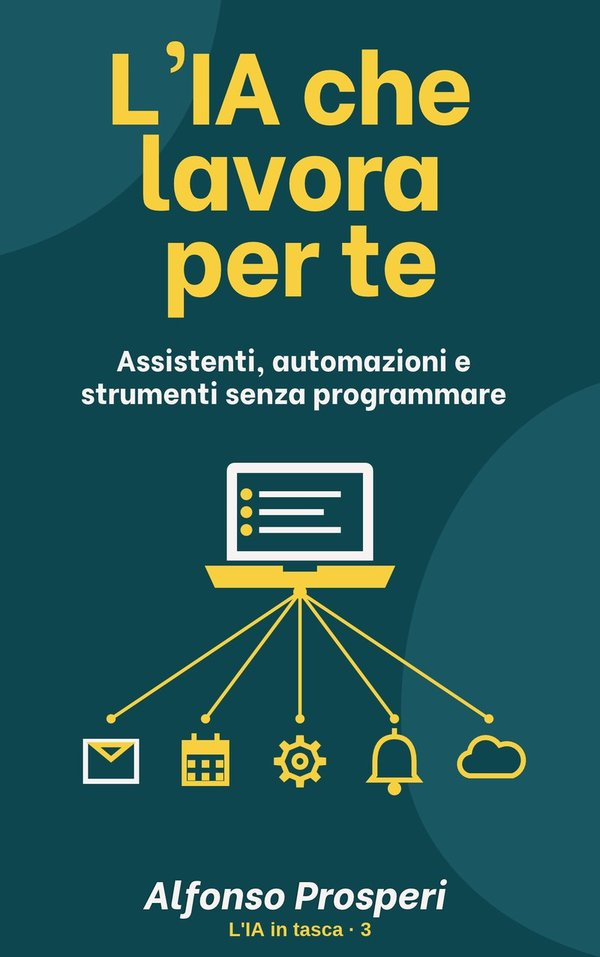
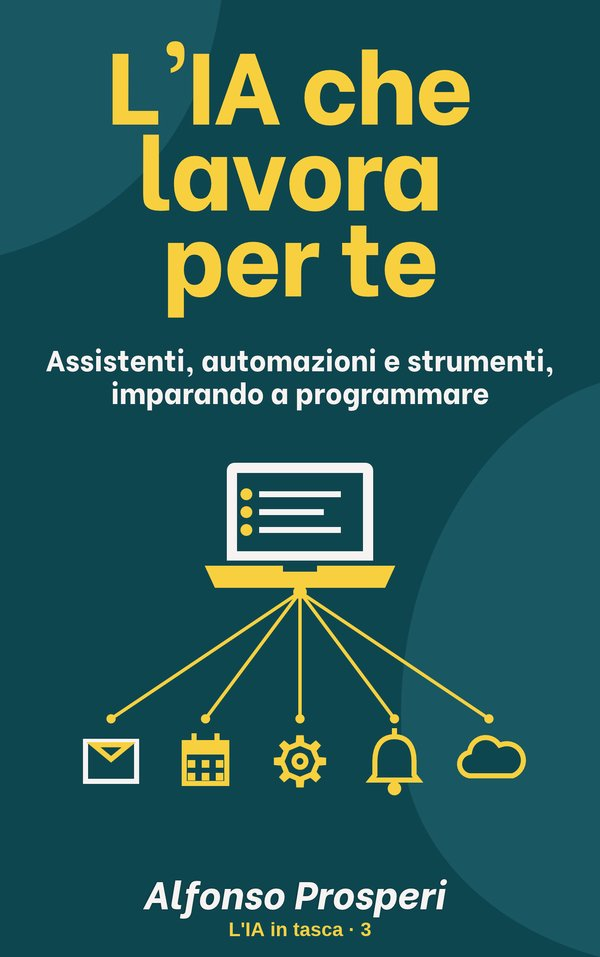
Copertina 3 e immagine collana aggiornate (anteprima)
Claude-Session: https://claude.ai/code/session_015jzQVtorYFvb99Z724cnmR

Changed region(s): [[0.06, 0.3636, 0.93, 0.4242], [0.48, 0.7879, 0.51, 0.8182]]

diff --git a/ebook/index.html b/ebook/index.html
@@ -11,13 +11,13 @@
 <meta property="og:type" content="website">
 <meta property="og:locale" content="it_IT">
 <meta property="og:url" content="https://prosperialfonso.com/ebook/">
-<meta property="og:image" content="https://prosperialfonso.com/assets/ebook/og-collana.jpg?v=2">
+<meta property="og:image" content="https://prosperialfonso.com/assets/ebook/og-collana.jpg?v=3">
 <meta property="og:image:width" content="1200">
 <meta property="og:image:height" content="627">
 <meta name="twitter:card" content="summary_large_image">
 <meta name="twitter:title" content="L'IA in tasca · la collana di eBook di Alfonso Prosperi">
 <meta name="twitter:description" content="La collana di eBook per usare l'intelligenza artificiale nella vita di tutti i giorni, in tre volumi dal principiante all'esperto.">
-<meta name="twitter:image" content="https://prosperialfonso.com/assets/ebook/og-collana.jpg?v=2">
+<meta name="twitter:image" content="https://prosperialfonso.com/assets/ebook/og-collana.jpg?v=3">
 <link rel="canonical" href="https://prosperialfonso.com/ebook/">
 <link rel="icon" href="/favicon.ico" sizes="48x48">
 <link rel="icon" href="/favicon-96.png" type="image/png" sizes="96x96">
@@ -160,11 +160,11 @@
         </section>
 
         <section class="eb-card is-soon" id="ebook-3">
-          <div class="eb-cover"><img src="../assets/ebook/copertina-3.jpg?v=1" alt="Copertina dell'eBook L'IA che lavora per te, L'IA in tasca 3" width="600" height="957" loading="lazy"></div>
+          <div class="eb-cover"><img src="../assets/ebook/copertina-3.jpg?v=2" alt="Copertina dell'eBook L'IA che lavora per te, L'IA in tasca 3" width="600" height="957" loading="lazy"></div>
           <div class="eb-info">
             <div class="eb-top"><span class="eb-num">L'IA in tasca · 3 · Esperto</span><span class="eb-badge eb-wip">In lavorazione</span></div>
             <h2>L'IA che lavora per te</h2>
-            <p class="eb-sub">Assistenti, automazioni e strumenti senza programmare</p>
+            <p class="eb-sub">Assistenti, automazioni e strumenti, imparando a programmare</p>
             <p>Per chi vuole fare un passo in più: assistenti su misura e piccole automazioni che tolgono di mezzo i lavori ripetitivi, imparando a programmare.</p>
           </div>
         </section>

diff --git a/index.html b/index.html
@@ -206,7 +206,7 @@
         <a class="shot shot-book shot-trio" href="ebook/" aria-label="L'IA in tasca, scopri la collana di eBook">
           <img src="assets/ebook/copertina-1.jpg?v=1" loading="lazy" decoding="async" alt="Copertina dell'eBook L'IA che ti risolve la giornata" width="600" height="957">
           <img src="assets/ebook/copertina-2.jpg?v=1" loading="lazy" decoding="async" alt="Copertina dell'eBook L'IA che ragiona con te" width="600" height="957">
-          <img src="assets/ebook/copertina-3.jpg?v=1" loading="lazy" decoding="async" alt="Copertina dell'eBook L'IA che lavora per te" width="600" height="957">
+          <img src="assets/ebook/copertina-3.jpg?v=2" loading="lazy" decoding="async" alt="Copertina dell'eBook L'IA che lavora per te" width="600" height="957">
         </a>
         <div class="project-body">
           <div class="project-head"><h3><a href="ebook/">L'IA in tasca</a></h3><span class="tools">Collana di eBook Kindle</span></div>
